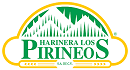
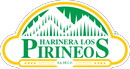
Cambio menor en mejorantes

diff --git a/styles/menu.css b/styles/menu.css
@@ -16,22 +16,29 @@
     display: none;
 }
 
-.img_banner{
-    display: inline-flex;
-    justify-content: left;
-    padding: 14px;
-    background: #08903E;
-    float: right;
+header .img_banner{
+    display: flex;
+    align-items: center;
+    justify-content: center;
+    height: 100px;
+}
+
+header .img_banner div {
+    background-color: #08903E;
 }
 
 header{
     width: 100%;
+    background-color: #08903E;
 }
 
 header nav{
     background: #08903E;
     z-index: 1000;
     width: 100%;
+    display: flex;
+    justify-content: center;
+    align-items: center;
 }
 
 header nav ul {
@@ -112,8 +119,15 @@ header nav ul li .slide_icon{
         padding-top: 80px;
     }
 
-    .img_banner{
+    header .img_banner{
         display: none;
+    }
+
+    header nav{
+        background: #08903E;
+        z-index: 1000;
+        width: 100%;
+        display: block;
     }
 
     .menu_bar{
@@ -139,6 +153,11 @@ header nav ul li .slide_icon{
     .menu_bar span{
         float: right;
         font-size: 40px;
+    }
+
+    .menu_bar img {
+        width: 80px;
+        height: 50px;
     }
 
     header nav{

diff --git a/styles/mejorante_renidmix.css b/styles/mejorante_renidmix.css
@@ -9,11 +9,26 @@
     font-family: Montserrat;
 }
 
-.menu {
+#menu {
     position: fixed;
     padding: 0;
     margin: 0;
 }
+
+.headroom {
+    transition: transform .3s ease;
+}
+
+/* Mostrar Menu */
+.headroom--pinned {
+    transform: translateY(0%);
+}
+/* Ocultar Menu */
+.headroom--unpinned {
+    transform: translateY(-100%);
+}
+
+
 
 body {
     background-color: #F4F4F4;
@@ -23,7 +38,7 @@ body {
 
 .container {
     width: 95%;
-    padding-top: 100px;
+    padding-top: 200px;
     margin: 20px auto;
     margin-top: 0;
     display: grid;
@@ -354,6 +369,7 @@ body {
         padding-bottom: 50px;
     }
 
+
 }
 
 @media screen and (min-width: 1180px) and (max-width: 1794px){
@@ -371,6 +387,8 @@ body {
         padding-right: 160px;
         padding-bottom: 15px;
     }
+
+   
 
 
 }
@@ -390,6 +408,7 @@ body {
         padding-right: 50px;
         padding-bottom: 15px;
     }
+
 
 
 }

diff --git a/mejorante_rendimix.html b/mejorante_rendimix.html
@@ -12,20 +12,24 @@
     <script src = "scripts/jquery-latest.js"></script>
 	<script src = "scripts/encabezado.js"></script>
 
+    <script src = "scripts/headroom.js"></script>
+
     <title> Mejorante RendiMix </title>
 </head>
 <body>
 
-    <header class = "menu">
+    <header id = "menu">
+
+		<span class = "img_banner">
+			<div>
+				<img src = "pirineos.png">
+			</div>
+		</span>
+
+
 		<div class = "menu_bar">
-			<a href = "#" class = "b_menu"><span class = "icon-menu"></span> Pirineos </a>
+			<a href = "#" class = "b_menu"><span class = "icon-menu"></span> <div> <img src = "pirineos.png"> </div> </a>
 		</div>
-
-
-		<!-- <span class = "img_banner">
-			<img src = "imagenes/pirineos_logo.png">
-		</span> -->
-
 		<nav>
 
 			<ul>

diff --git a/inicio.html b/inicio.html
@@ -50,7 +50,7 @@
         
                     <a href = "#"><span class = "icon-open-book"></span> Recetarios <span class = "slide_icon icon-chevron-down"></span></a>
                     <ul class = "children">
-                        <li><a href = "#"> Bakery Mix <span class = "icon-bowl"></span></a></li>
+                        <li><a href = "standard.png" download> Bakery Mix <span class = "icon-bowl"></span></a></li>
                         <li><a href = "#"> Harinas Tres Estrellas <span class = "icon-bowl"></span></a></li>
                         <li><a href = "#"> Polvo para Hornear Tres Estrellas <span class = "icon-bowl"></span></a></li>
                     </ul>

diff --git a/Encabezado (usar en paginas).html b/Encabezado (usar en paginas).html
@@ -20,14 +20,17 @@
 <body>
 	
 	<header>
-		<div class = "menu_bar">
-			<a href = "#" class = "b_menu"><span class = "icon-menu"></span> Pirineos </a>
-		</div>
-
 
 		<span class = "img_banner">
-			<img src = "imagenes/pirineos_logo.png">
+			<div>
+				<img src = "pirineos.png">
+			</div>
 		</span>
+
+
+		<div class = "menu_bar">
+			<a href = "#" class = "b_menu"><span class = "icon-menu"></span> <div> <img src = "pirineos.png"> </div> </a>
+		</div>
 
 		<nav>
 
@@ -54,6 +57,7 @@
 				<li><a href = "#"><span class = "icon-typing"></span> Contacto </a></li>
 
 			</ul>
+
 		</nav>
 	</header>
 

diff --git a/scripts/menu.js b/scripts/menu.js
@@ -1,0 +1,8 @@
+
+$(function() {
+    
+    var header = document.getElementById("menu");
+    var headroom = new Headroom(header);
+    headroom.init();
+
+});
